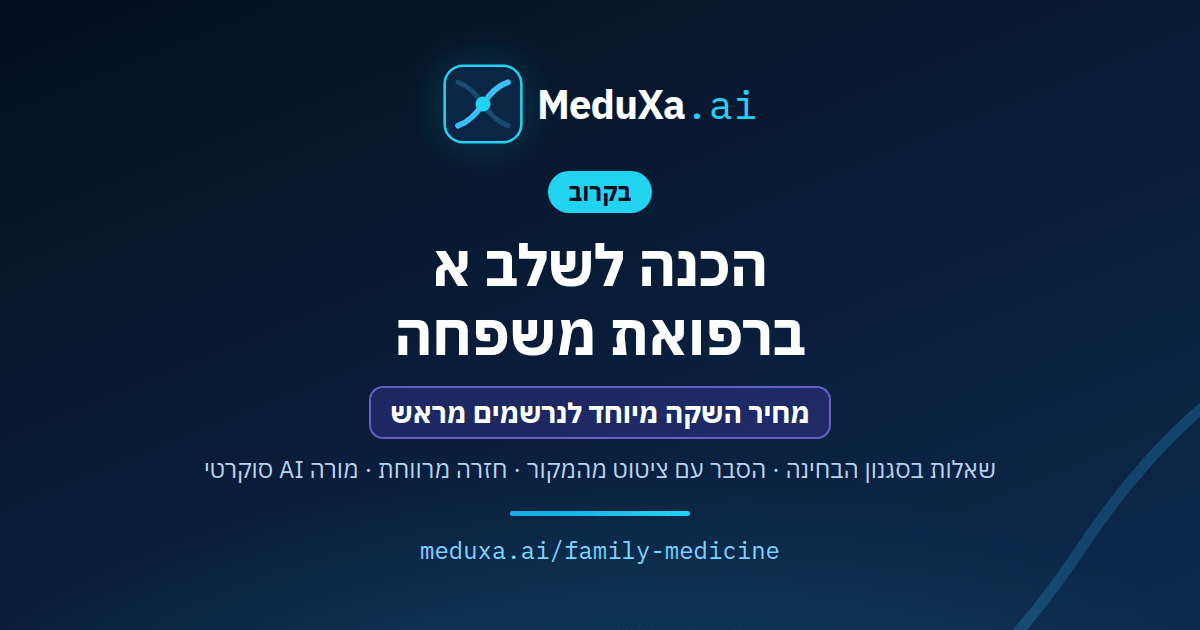
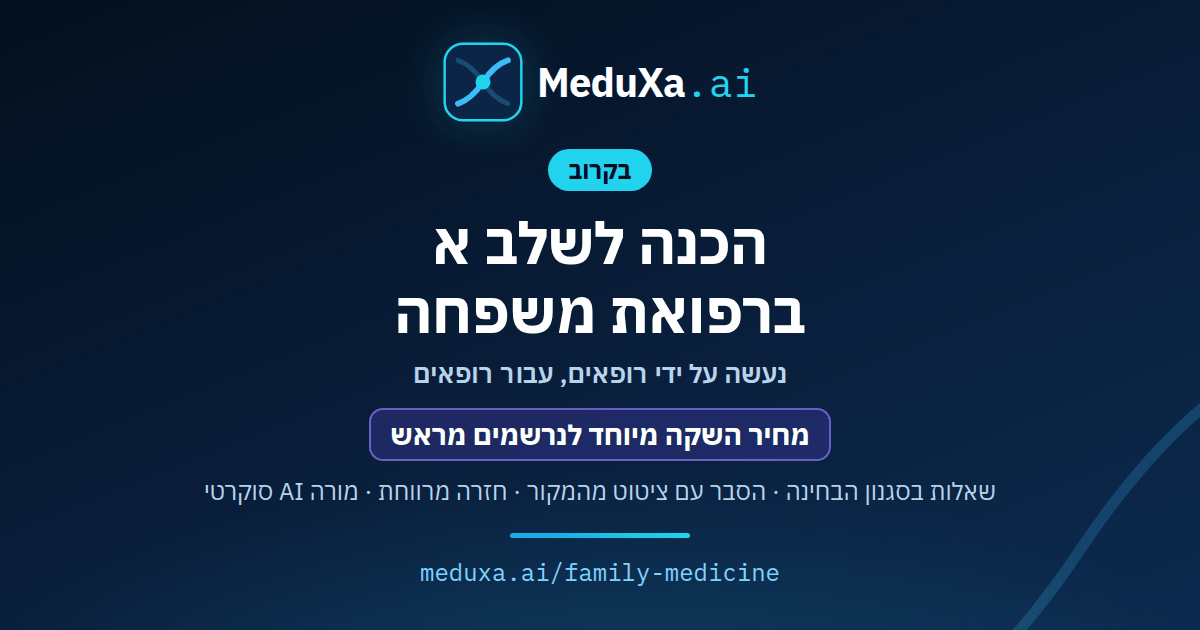
Family medicine page + promo images: add the motto 'by doctors, for doctors'
- Tagline under the hero headline, with a cyan accent bar.
- Same line on both promo images (link preview and WhatsApp square).
- og:image cache-bust bumped to ?v=5 so WhatsApp fetches the new preview.

Claude-Session: https://claude.ai/code/session_017tdgyPwzyZvYkxrvaCEj4W

Changed region(s): [[0.1542, 0.0603, 0.8325, 0.9349]]

diff --git a/family-medicine.html b/family-medicine.html
@@ -13,7 +13,7 @@
 <meta property="og:title" content="בקרוב: הכנה לשלב א ברפואת משפחה — MeduXa.ai" />
 <meta property="og:description" content="שאלות בסגנון הבחינה, הסבר עם ציטוט מהמקור, חזרה מרווחת ומורה AI סוקרטי. מחיר השקה מיוחד לנרשמים מראש." />
 <meta property="og:url" content="https://meduxa.ai/family-medicine" />
-<meta property="og:image" content="https://meduxa.ai/og-family-medicine.png?v=4" />
+<meta property="og:image" content="https://meduxa.ai/og-family-medicine.png?v=5" />
 <meta property="og:image:width" content="1200" />
 <meta property="og:image:height" content="630" />
 <meta property="og:image:alt" content="MeduXa.ai — בקרוב: הכנה לשלב א ברפואת משפחה" />
@@ -21,7 +21,7 @@
 <meta name="twitter:card" content="summary_large_image" />
 <meta name="twitter:title" content="בקרוב: הכנה לשלב א ברפואת משפחה — MeduXa.ai" />
 <meta name="twitter:description" content="שאלות בסגנון הבחינה, הסבר עם ציטוט מהמקור, חזרה מרווחת ומורה AI סוקרטי. מחיר השקה מיוחד לנרשמים מראש." />
-<meta name="twitter:image" content="https://meduxa.ai/og-family-medicine.png?v=4" />
+<meta name="twitter:image" content="https://meduxa.ai/og-family-medicine.png?v=5" />
 <meta name="robots" content="index, follow" />
 <meta name="theme-color" content="#061225" />
 <link rel="icon" href="/favicon.svg" type="image/svg+xml" />
@@ -91,6 +91,8 @@
   @keyframes dotPulse { 0%,100% { opacity: .45; } 50% { opacity: 1; } }
   h1 { margin: 0; font-size: 54px; font-weight: 700; color: #fff; line-height: 1.15; letter-spacing: -0.01em; }
   h1 .grad { background: linear-gradient(90deg, #38BDF8, #22D3EE); -webkit-background-clip: text; background-clip: text; -webkit-text-fill-color: transparent; }
+  .motto { margin: -6px 0 0; font-size: 20px; font-weight: 600; color: #B8D4EA; letter-spacing: .01em; }
+  .motto::before { content: ''; display: inline-block; width: 28px; height: 3px; border-radius: 2px; background: #22D3EE; vertical-align: middle; margin-inline-end: 10px; }
   .offer { align-self: flex-start; display: flex; align-items: center; gap: 12px; background: rgba(107,76,240,.14);
            border: 1px solid rgba(155,135,255,.45); border-radius: 14px; padding: 12px 18px; }
   .offer small { white-space: nowrap; font-family: 'IBM Plex Mono', monospace; font-size: 11px; letter-spacing: .14em; color: #C9BCFF; direction: ltr; }
@@ -202,6 +204,7 @@
     .nav-cta { padding: 9px 16px; font-size: 14px; }
     .hero { padding: 48px 16px 60px; }
     h1 { font-size: 36px; }
+    .motto { font-size: 17px; }
     .offer { flex-direction: column; align-items: flex-start; gap: 4px; }
     .lead { font-size: 17px; }
     .hero-cta { align-self: stretch; text-align: center; font-size: 17px; }
@@ -265,6 +268,7 @@
       <div class="hero-copy">
         <span class="chip"><span class="dot"></span>בקרוב · רפואת משפחה · שלב א</span>
         <h1>הכנה לשלב א<br><span class="grad">ברפואת משפחה</span></h1>
+        <p class="motto">נעשה על ידי רופאים, עבור רופאים</p>
         <div class="offer"><small lang="en">LAUNCH PRICE</small><strong>מחיר השקה מיוחד לנרשמים מראש</strong></div>
         <p class="lead">מנוע למידה שכבר עובד עם מתמחים לקראת שלב א — עכשיו גם לרפואת משפחה. השאירו מייל ונעדכן אתכם ברגע שזה נפתח.</p>
         <a class="btn-action hero-cta" href="#signup">הרשמה לעדכון על רפואת משפחה</a>
